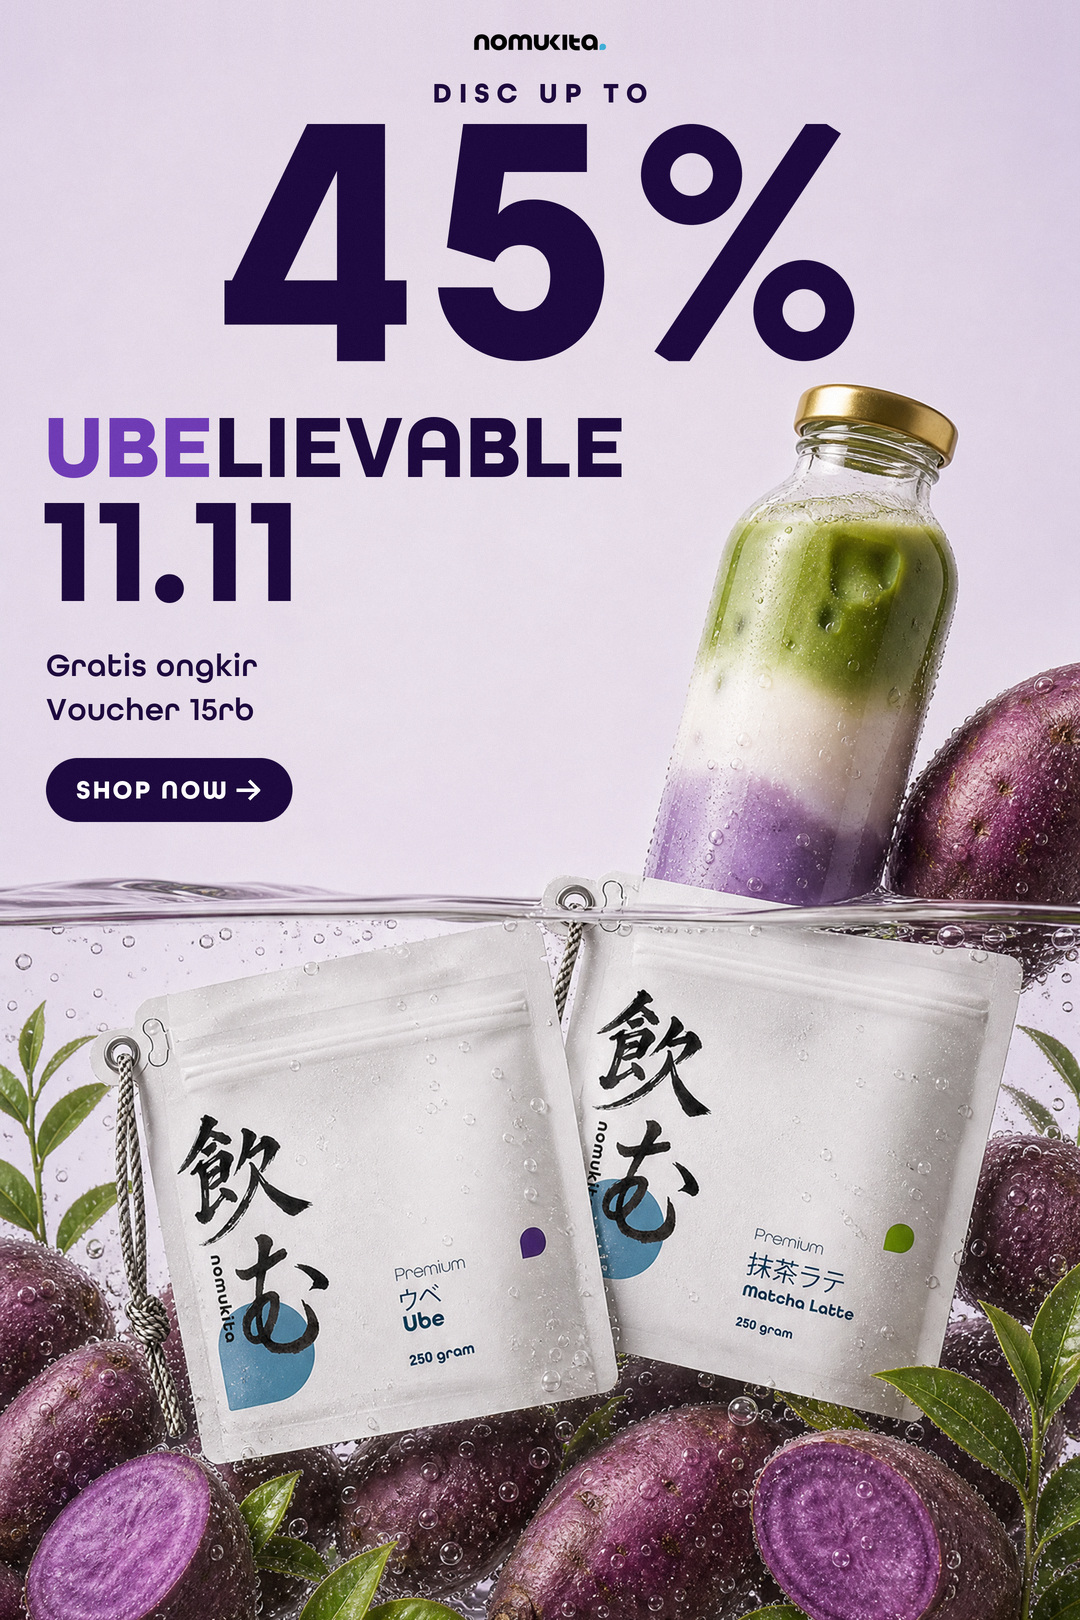
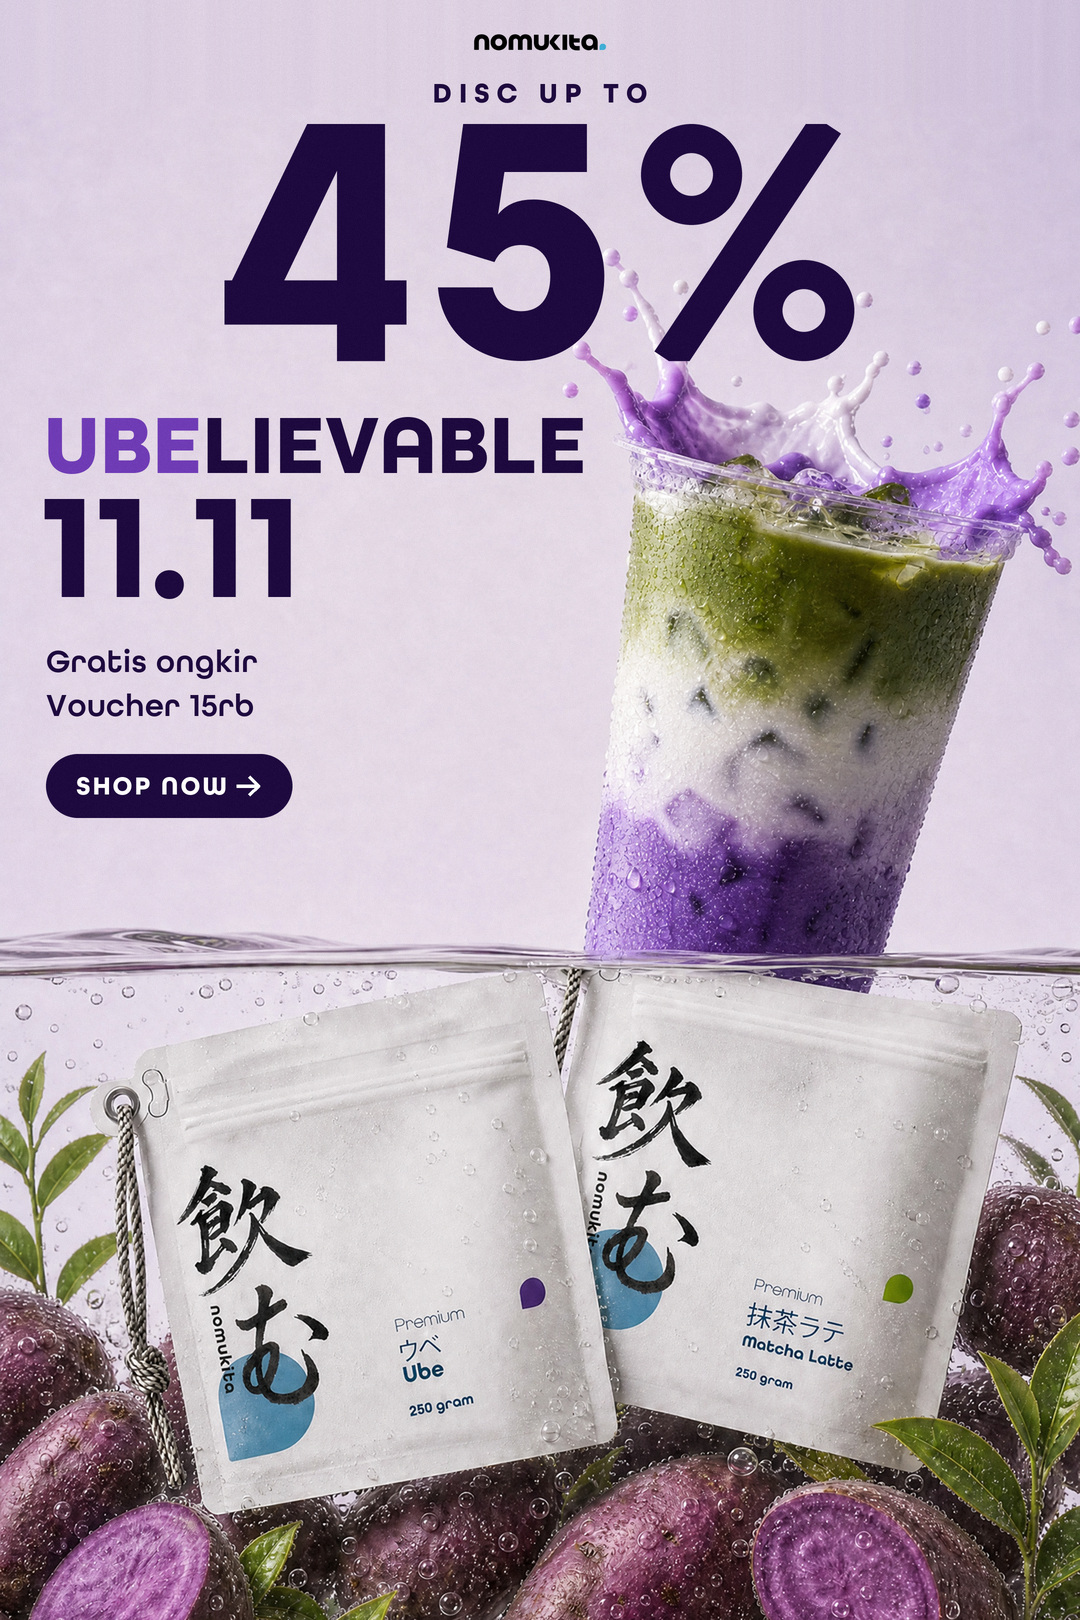
11.11 UBELIEVABLE: swap the bottle for the NOMUVEMBER-style cup
Claude-Session: https://claude.ai/code/session_01Bv3a5UzTxRJwy8L4VxmgVZ

diff --git a/banners/1111-ubelievable/scripts/compose_1111.py b/banners/1111-ubelievable/scripts/compose_1111.py
@@ -24,7 +24,7 @@ def text(cv, x, y, s, fnt, tr=0, fill=INK, align="left"):
 def cap(fnt): b = fnt.getbbox("H"); return (b[3] - b[1]) / K
 
 # ---- backdrop: scene shifted down, gradient-continued on top ----
-sc = Image.open(ROOT + "/d1111/S1111_A.png").convert("RGB")
+sc = Image.open(ROOT + "/d1111/" + L.get("scene", "S1111_A.png")).convert("RGB")
 s = CW / sc.width; sc = sc.resize((CW, round(sc.height * s)), Image.LANCZOS)
 SHIFT = L.get("shift", 45)
 bg = Image.new("RGB", (CW, CH))

diff --git a/banners/1111-ubelievable/README.md b/banners/1111-ubelievable/README.md
@@ -10,6 +10,13 @@ Copy
 - Angka 45: tinggi blok 237 px = 21,94% lebar (aturan dari himhim7_23), diukur ulang pada piksel hasil render.
   Font DEMO mengunci "4" dan "%", jadi keduanya digambar sebagai vektor (vector_45pct dari banner 10.10).
 
+Revisi: botol diganti cup
+- Minuman memakai cup plastik bening seperti banner NOMUVEMBER (lapisan ube, susu dengan es, matcha, cipratan mahkota
+  ungu-putih). Edit image-to-image dari scene lama dengan crop cup NOMUVEMBER sebagai acuan; pouch dan teks pouch dicek
+  ulang dan tetap sesuai mockup. Versi botol disimpan di `archive-bottle/`.
+- Scene digeser turun 95 px dan UBELIEVABLE diperkecil (90 -> 84) supaya bibir cup tidak menyentuh teks.
+  Angka 45 tetap 237 px (21,94%). Kredit tambahan: 10 (sisa saldo 65,69).
+
 Visual
 - Gaya Referensi "Premium Apple Juice Label Design _ Liva Packaging": produk menembus garis air, objek di bawah air
   dipenuhi gelembung kecil, latar terang lembut. Padanan Nomukita: latar krem-lavender, umbi ube utuh dan terbelah,
